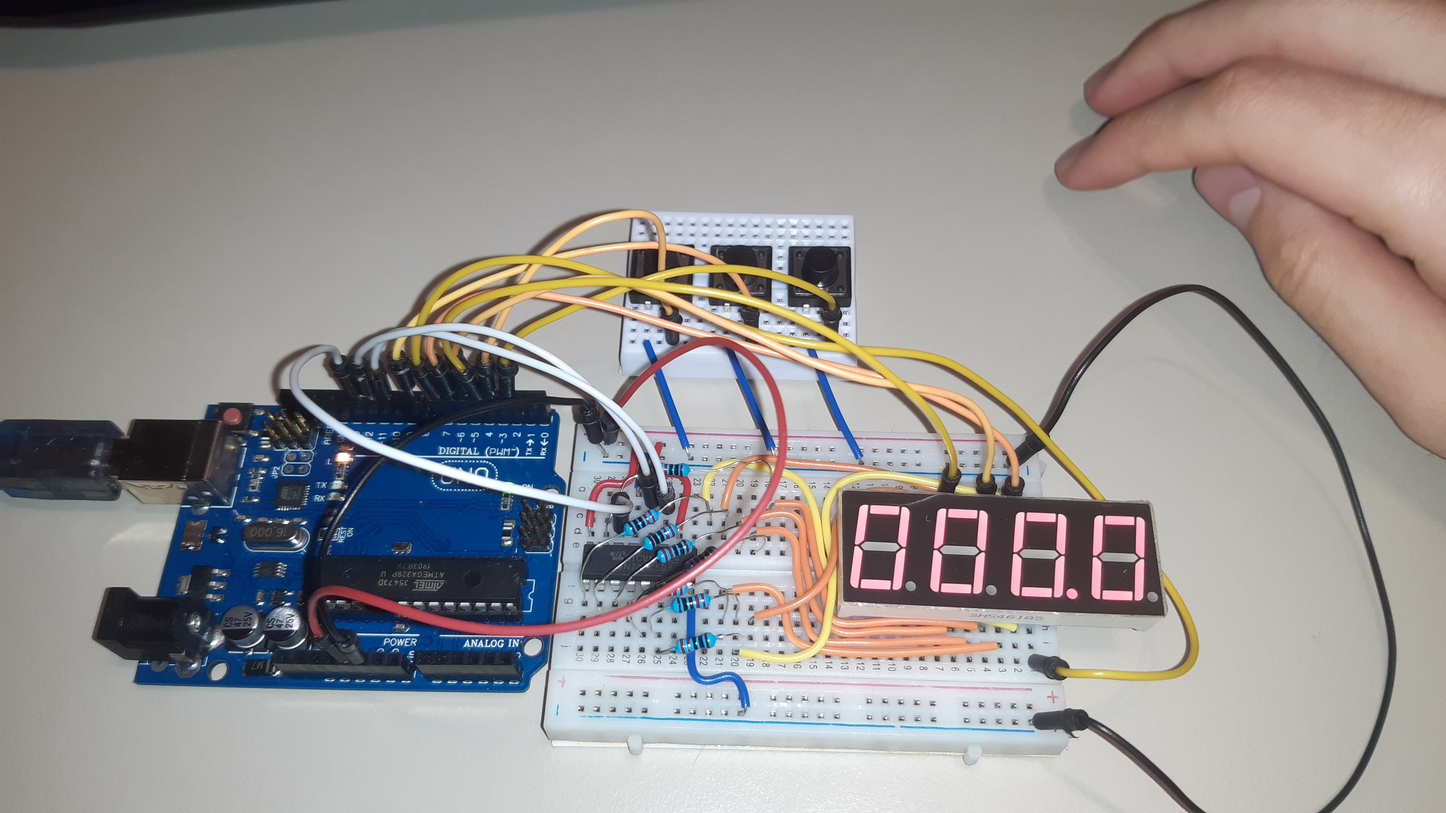
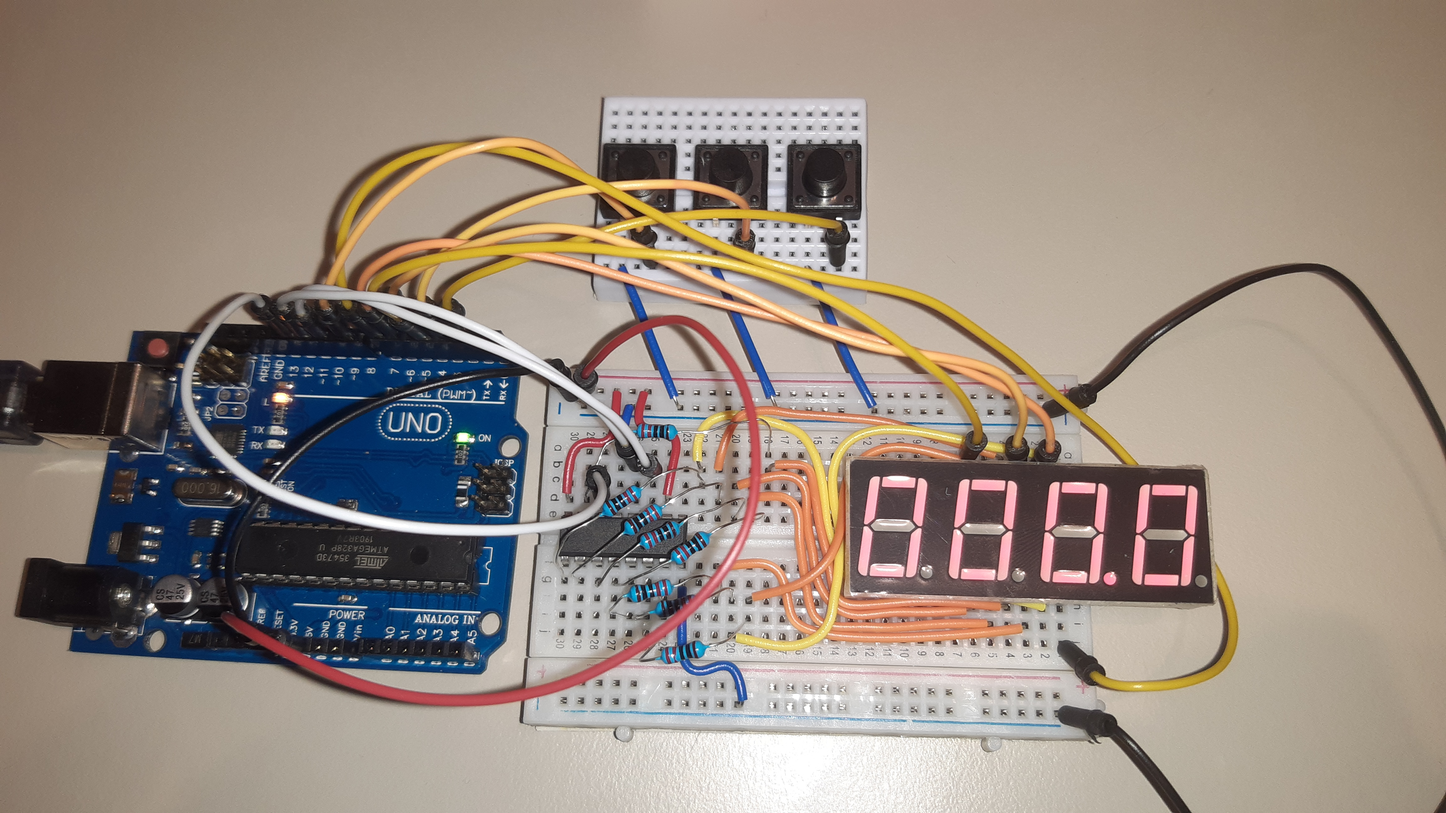
(hw04) update documentation

diff --git a/README.md b/README.md
@@ -14,6 +14,7 @@ Each homework includes all the code and schematics used in solving the homework,
 - [Homework 1: RGB LED](#homework-1-rgb-led)
 - [Homework 2: Elevator simulator](#homework-2-elevator-simulator-wannabe)
 - [Homework 3: 7 segment display drawing](#homework-3-7-segment-display-drawing)
+- [Homework 4: Stopwatch timer](#homework-4-stopwatch-timer)
 
 
 ## Homework 1: RGB LED
@@ -144,3 +145,53 @@ The `updateDisplayState()` function keeps the display in sync with the state in 
 
 **Video demo**
 [https://www.youtube.com/watch?v=_RZdfk5xklA](https://www.youtube.com/watch?v=_RZdfk5xklA)
+
+
+## Homework 4: Stopwatch timer
+
+### Task description
+
+The objective of the homework is to control the state of a 7 segment digit display using joystick movement and switch press inputs. Additionally, I've added a buzzer for sound feedback of the state changes.
+
+### Components used
+
+- Arduino UNO
+- a 4 digit 7 segment digit display
+- 3 button switches
+- 8 220ohm resistors
+- connection wires
+
+### Circuit diagram
+![Homework 04 circuit diagram](doc/homework04/circuit_diagram.png)
+
+### Code description
+
+The code can be found in `src/homework04/`. Constant definitions can be found at the beginning of the file (such as the pin numbers for shift register outputs, action button inputs and display control pins, action timings, common annode / cathode configuration for 7 segment display and the max length of the lap vector). There are also defined variables for keeping program state and button press debounce timings. The stopwatch can be in one of these states: _STOPPED_, _RUNNING_, _PAUSED_. In _STOPPED_ state, the stopwatch can be started (state changing to _RUNNING_), or cycle through saved laps. In _RUNNING_ state, the count is incremented, current count can be saved as laps and the count can be paused (state changing to _PAUSED_). In _PAUSED_ state the count can be reseted (state changing to _STOPPED_) or the count can be resumed (state changing to _RUNNING_). While in _PAUSED_ state, the display blinks.
+
+The `setup()` function initializes pins and registers the start / pause and lap button interrupt handlers triggered on `FALLING` pin state.
+
+The `loop()` function processes input changes, increments the count, updates the blink state and updates the display to reflet state changes. In order to make the code simpler, I've split the functionality in multiple functions.
+
+The `handleStartPauseButtonInterrupt()`, `handleLapButtonInterrupt()` and `handleResetButtonPress()` contain button press handling logic calling the respective action handlers depending on current state. The first two are interrupt handlers in order to achieve better time precision.
+
+The `toggleStartPauseStopwatch()` action handler toggles between the _RUNNING_ and _PAUSED_ stopwatch states.
+
+The `saveLapAction()` action handler saves the current count as a new lap. The `nextLapInsertIndex` variable is used to cycle around the index where the lap time is saved when the maximum length of the lap vector is exceeded.
+
+The `cycleViewLapsAction()` action handler updates the `activeViewLapIndex` state to cycle around saved values. The first index provided corresponds to the oldest added value. When the index reaches the end of the lap vector, it cycles around to the beginning.
+
+The `resetCountAction()` action handler switches to _STOPPED_ state and resets the count and the active view lap index.
+
+The `resetLapsAction()` action handler resets the recorded laps.
+
+The `displayNumber()` function along with `writeReg()` and `activateDisplay()` helper functions write a number to the 4 digit 7 segment display, using the shift register. `writeReg()` writes a binary encoding of the display pins (A, B, C, D, E, F, G, DP) to the register for the active display. Using `activateDisplay()`, all the 4 digits are written sequentially but fast enough so that they apear to be always on.
+
+The `buttonInterruptDebounce()` and `buttonDebounce()` helper functions are used to identify debounced button presses inside interrupt handler or in the `loop()` function. They only return true when the debounced button state changed to pressed. The `delayedExec()` helper function handles the asyncrhonous delayed execution of code, returning true only when the specified interval has elapsed since last execution.
+
+
+### Implementation demo
+**Circuit implementation**
+![Homework 04 circuit implementation](doc/homework04/circuit_implementation.jpg)
+
+**Video demo**
+[https://www.youtube.com/watch?v=vgNZHsnJdfU](https://www.youtube.com/watch?v=vgNZHsnJdfU)
